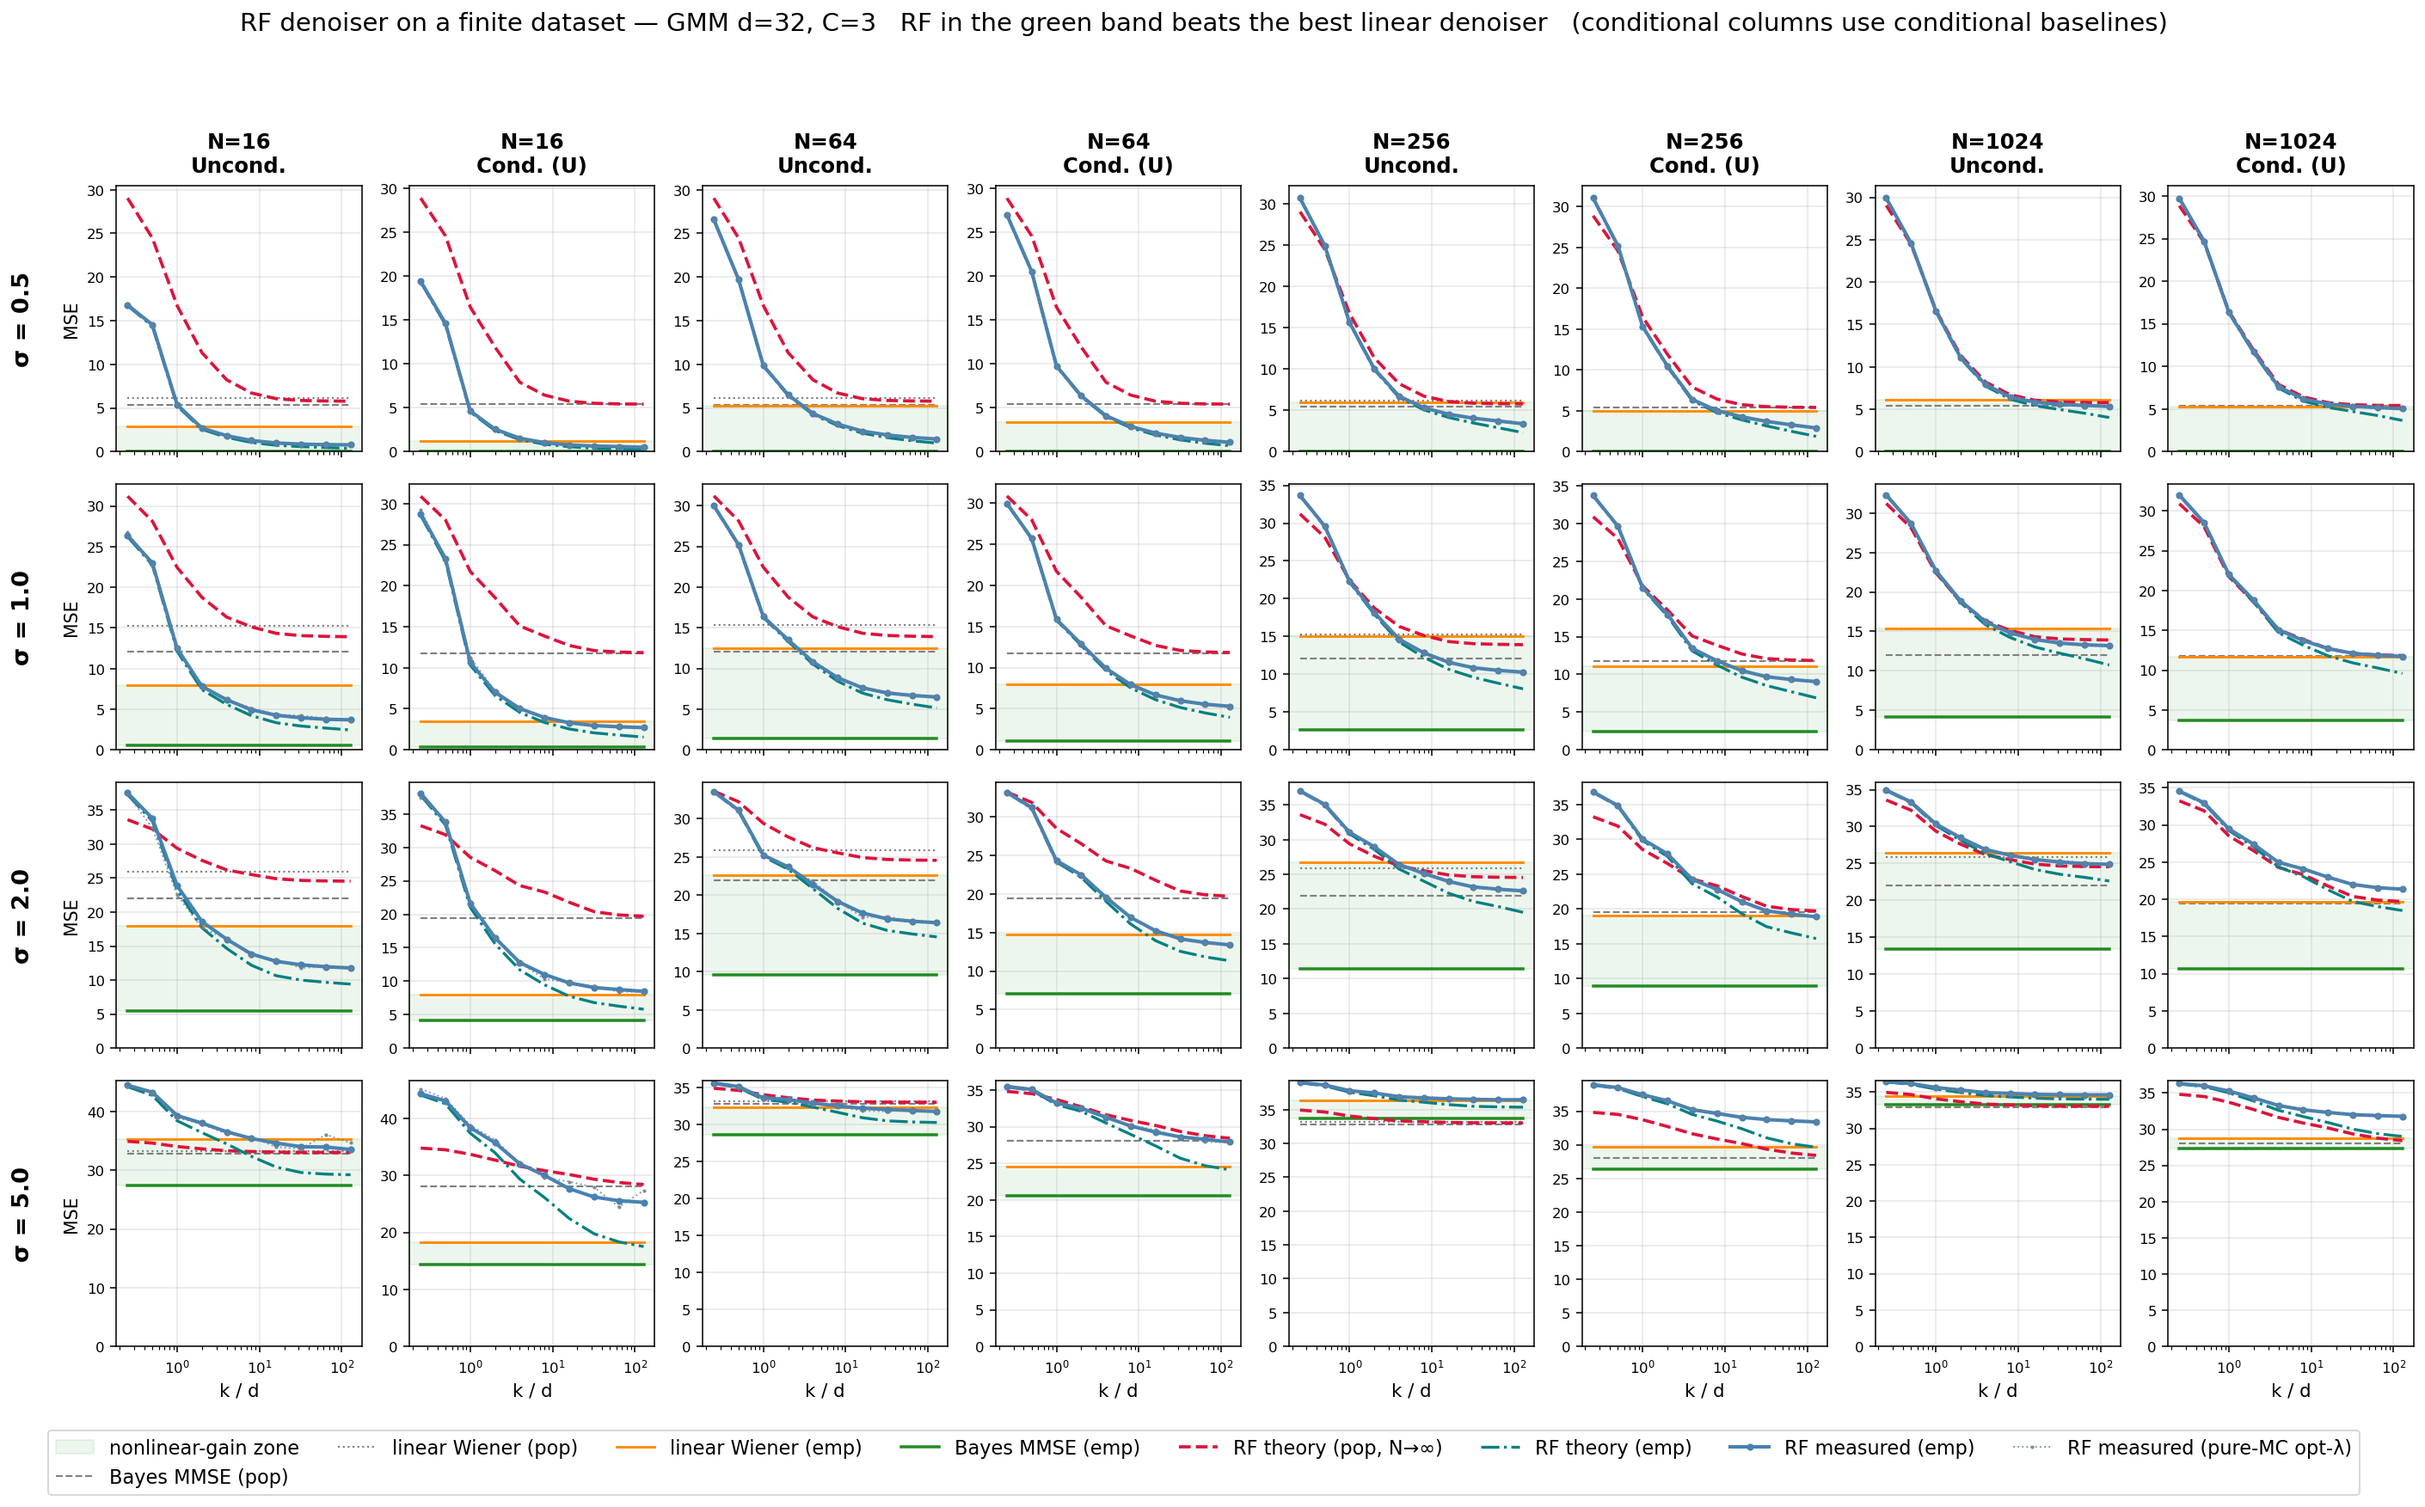
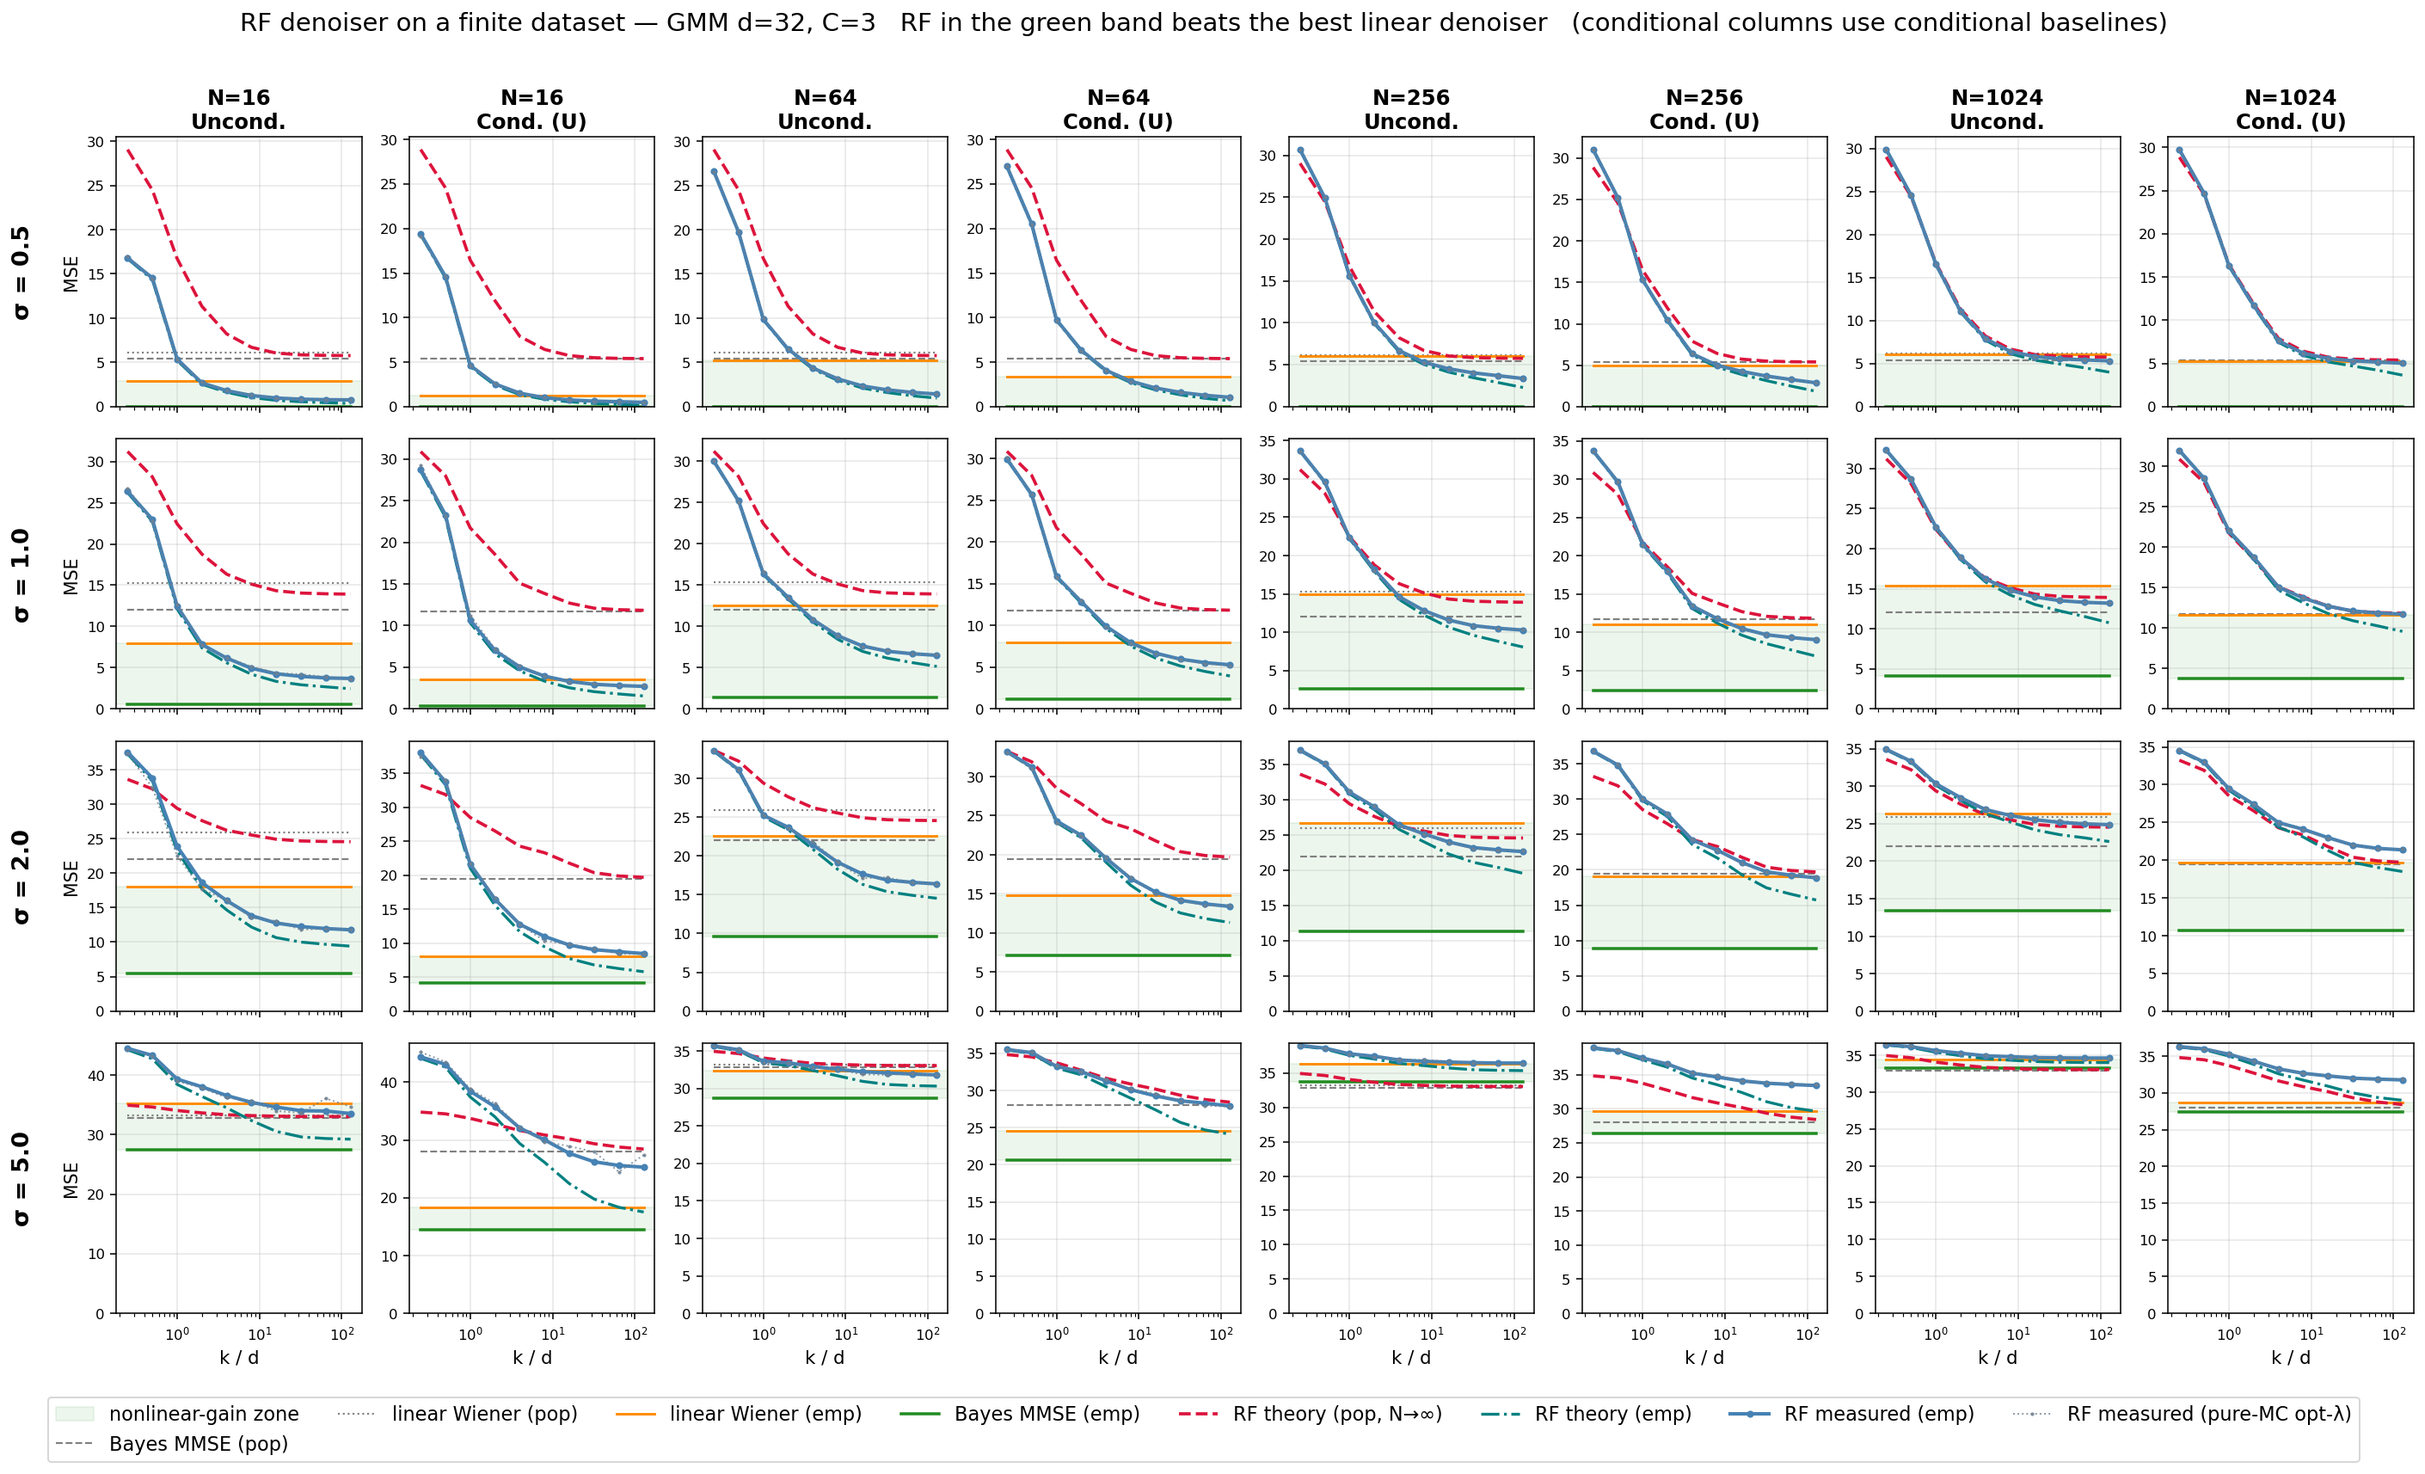
style(rf-gmm): tighten the gap between the suptitle and the panels in ALL_N
suptitle y 1.005 -> 0.982, tight_layout top 0.965 -> 0.972, column-header pad 8 -> 5.
Trims ~40px of dead space above the grid. Regenerated d=8 and d=32.

diff --git a/scripts/rf_gmm_stitch.py b/scripts/rf_gmm_stitch.py
@@ -57,7 +57,7 @@ def main():
     fig.suptitle(f'RF denoiser on a finite dataset — GMM d={D}, C={N_CLASSES}   '
                  'RF in the green band beats the best linear denoiser   '
                  '(conditional columns use conditional baselines)',
-                 fontsize=15, y=1.005)
+                 fontsize=15, y=0.982)
 
     cache = {N: load(N) for N in N_TRAIN}
     meta = {'u': ('nw_bayes', 'wiener_pop', 'wiener_emp', 'bayes_pop'),
@@ -103,7 +103,7 @@ def main():
             ax.grid(True, alpha=.3); ax.tick_params(labelsize=8.5)
             if r == 0:
                 ax.set_title(f"N={N}\n{'Uncond.' if uc == 'u' else 'Cond. (U)'}",
-                             fontsize=12.5, fontweight='bold', pad=8)
+                             fontsize=12.5, fontweight='bold', pad=5)
             if r == nR - 1:
                 ax.set_xlabel('k / d', fontsize=11)
             if c == 0:
@@ -113,7 +113,7 @@ def main():
 
     fig.legend(handles.values(), handles.keys(), loc='lower center', ncol=8,
                fontsize=11.5, frameon=True, bbox_to_anchor=(0.5, -0.012))
-    fig.tight_layout(rect=[0.014, 0.045, 1, 0.965])
+    fig.tight_layout(rect=[0.014, 0.045, 1, 0.972])
     os.makedirs(os.path.dirname(OUT), exist_ok=True)
     fig.savefig(OUT, dpi=140, bbox_inches='tight')
     print(f"Saved {OUT}   ({nR} rows x {nC} cols, landscape)")
